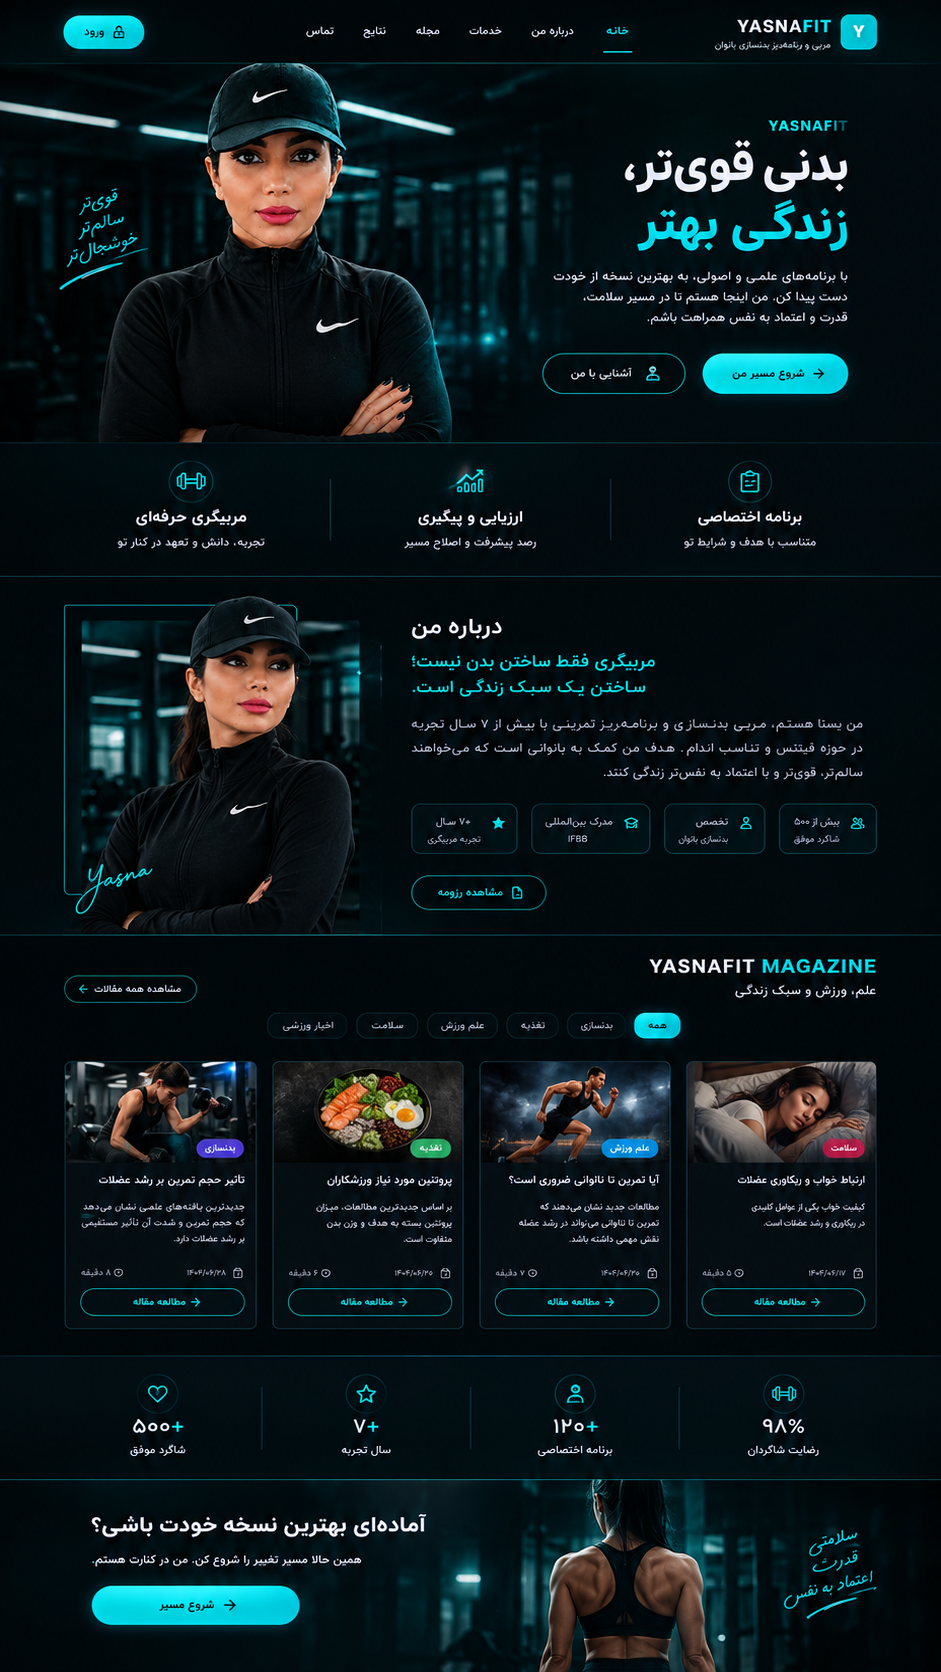
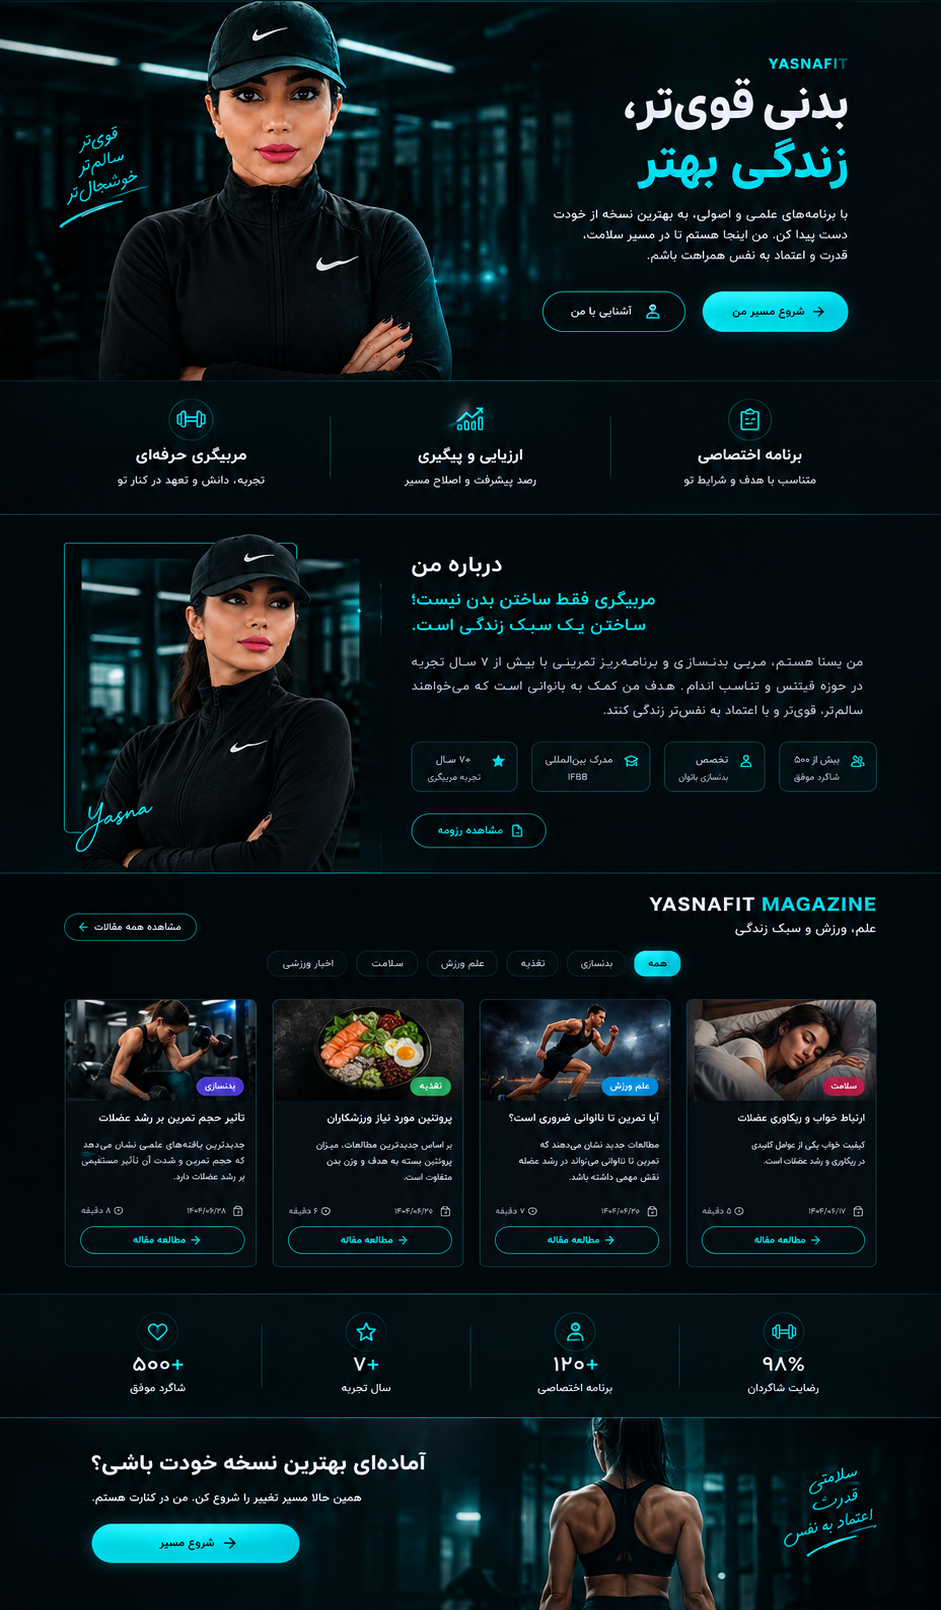
برش نوار هدرِ خودِ تصویر لندینگ (تکراری با هدر واقعی) — فقط فایل تصویر (۹۴×۱۶۱۰)

diff --git a/mahdi hellp.md b/mahdi hellp.md
@@ -1,7 +1,7 @@
 # MAHDI HELLP — YASNAFIT PERSISTENT AGENT MEMORY
 
 > **این فایل حافظهٔ دائمی پروژه است.** اولین کاری که هر Agent/Arena جدید باید بکند: فقط همین فایل را بخواند، سپس سراغ فایلهای مرتبط با تسک جاری برود. **کل مخزن یا همهٔ مستندات را ناخوانده باز نکنید.**
-> آخرین بهروزرسانی: **2026-09-20** (توسط Agent جلسهٔ `arena/01a0b993-yasnafit` — **Task 22 (شمارهگذاری docs/project-tracking): هدر واقعی روی لندینگ با لیست دقیق مالک (خانه/درباره من/خدمات/مجله/نتایج + ثبت نام + ورود) + تصویر به عرض طبیعی ۹۴۱px / موبایل-responsive ⇒ T-19 DONE**. قبلتر: Task 17–21 (همه committed + push شده). جلسهٔ قبل: `arena/01a0817f-yasnafit` — Task 25/26).
+> آخرین بهروزرسانی: **2026-09-20** (توسط Agent جلسهٔ `arena/01a0b993-yasnafit` — **Task 23 (شمارهگذاری docs/project-tracking): برش نوار هدرِ خودِ تصویر لندینگ (۶۲px — لوگو/منو/شعار/دکمهٔ ورود داخل تصویر که با هدر واقعی تکراری بود)؛ فقط تصویر برش خورد، کد دستنخورده**. قبلتر: Task 17–22 (همه committed + push شده). جلسهٔ قبل: `arena/01a0817f-yasnafit` — Task 25/26).
 > هر مقدار تأییدنشده با برچسب `UNKNOWN — needs verification` آمده است. هیچ مقدار اختراعی در این فایل نیست.
 
 ---
@@ -151,6 +151,7 @@
 ## 10. Current Completed Work (فقط کارهای واقعاً انجامشده)
 
 * **2026-09-20** — **Task 22 (همین جلسه/شاخه — هدر روی لندینگ + دکمهها + اندازهٔ تصویر — T-19 مرحلهٔ ۱):** مالک: «عکس خیلی بزرگه — کوچکتر کن مناسب موبایل هم باشه — بالا هدر — دکمهها: خانه - درباره من - خدمات - مجله - نتایج - ثبت نام - ورود» ⇒ (1) هدر واقعی بالای تصویر با دقیقاً همین ۵ لینک (`HEADER_NAV`) + دکمهٔ **ثبت نام** → `/student/register` + دکمهٔ **ورود** → `/student/login` (فلوهای موجود)؛ برای نشست مربی: «پنل مربی»؛ منوی همبرگری موبایل فعال. (2) تصویر سقف عرض ۹۴۱px (عرض طبیعی طرح) + وسطچین — موبایل: تمامعرض. هدر در همهٔ صفحات عمومی مشترک؛ فوتر دستنخورده (تماس در فوتر). **T-19 DONE** (مالک هدر بالا را بهجای دکمهرویتصویر انتخاب کرد). ۵۸ گروه test:public-site + ۱۹/۱۹ npm test + smoke زنده.
+* **2026-09-20** — **Task 23 (همین جلسه/شاخه — پاککردن نوشتههای هدرِ خودِ تصویر لندینگ):** مالک: «خوبه — ولی زیر دکمهها نوشتههای قبلی عکس بود؛ اون نوشتهها رو پاک کن» ⇒ نوار بالای `public/images/landing/landing2.png` (۶۲px = لوگو YASNAFIT + منو + شعار «مربی و برنامهریز پیشگیری بانوان» + دکمهٔ ورودِ داخل تصویر) برش خورد (۹۴۱×۱۶۷۲ → ۹۴۱×۱۶۱۰)؛ بقیهٔ طرح دستنخورده؛ هیچ کد/HTML/CSS تغییر نکرد (مسیر تصویر ثابت). smoke: تصویر ۲۰۰ (۹۴۱×۱۶۱۰).
 * **2026-09-20** — **Task 21 (همین جلسه/شاخه — لندینگ = تصویر کامل طرح مرجع `landing2.png`):** مالک از Task 20 (فقط عکسها) راضی نبود: «خوب نشد راضی نیستم — همین تصویر مرجع رو کامل استفاده کن؛ بعدا جای دکمه ها رو مشخص میکنیم» ⇒ بدی صفحهٔ `/` حالا تصویر کامل `public/images/landing/landing2.png` است (تمامعرض، بدون هدر/فوتر/دکمه — همهٔ المانهای طرح بصری)؛ `<head>`/SEO دستنخورده؛ ساختار لندینگ قبلی (`homeBody` + sample cards) از `server.js` حذف شد؛ سایر صفحات عمومی/دکمهها/API/ورود دستنخورده؛ ورود مربی فعلاً مستقیم `/coach/login` یا `/coach/dashboard`. ۵۷ گروه test:public-site + ۱۹/۱۹ npm test + smoke زنده. تسک جدید T-19: جایگذاری دکمهها بعد از مشخصشدن توسط مالک.
 * **2026-09-20** — **Task 20 (همین جلسه/شاخه — تصویرهای اصلی برند لندینگ از طراحی مالک `landing2.png`):** مالک: «فقط عکسها رو عوض کن. هیچ چیز دیگهای رو تغییر نده» ⇒ هیرو = زن با کلاه مشکی (دستبهسینه)، درباره = همان زن، CTA = نمای پشت، + ۴ تصویر کارت مجله (بدنسازی/تغذیه/علم ورزش/سلامت) — ۷ تصویر برشخورده در `public/images/landing/` + پیشفرضهای `site.hero_image`/`site.about_image`/`site.cta_image` + src کارتهای نمونه (`server.js`)؛ **هیچ** تغییر ساختار/متن/دکمه/فیلتر/آمار/چیدمان/رنگ؛ ۵۷ گروه test:public-site + ۱۹/۱۹ npm test + smoke زنده. KI-018 بسته شد؛ T-18 → PARTIAL (فقط OG).
 * **افزونه (2026-09-19، درخواست مالک):** launcher (گزینه 1/2) بهجای /coach/login حالا صفحه اصلی (لندینگ) را باز میکند — «نمیخوام این صفحه باز بشه اول، صفحه لندینگ بزار صفحه اصلی». `:OPEN_DASHBOARD` ⇒ `:OPEN_SITE` (URL `http://localhost:%PORT%/`)؛ منو همچنان 5 گزینهای (گاردهای تست دستنخورده). ورود مربی از دکمه «ورود» هدر لندینگ یا مستقیم /coach/login. همچنین ردیف راستیآزمایی deploy در DEPLOYMENT.md اصلاح شد (=/ = 200 لندینگ، نه 303). تستها: ui-design + student-credentials + deployment + public-site سبز.
@@ -237,6 +238,7 @@
 * **Task 20 (2026-09-20، درخواست مالک — تصویرهای برند):** «فقط عکسها رو عوض کن. هیچ چیز دیگهای رو تغییر نده» ⇒ ۷ تصویر از `landing2.png` (هیرو/درباره/CTA + ۴ کارت مجله) در `public/images/landing/` + پیشفرضهای `site.*_image` + src کارتها؛ چیدمان/متن/دکمه/فیلتر/آمار کاملاً دستنخورده (قاعدهٔ صریح مالک). ✅ ۵۷ گروه + ۱۹/۱۹ + smoke زنده؛ committed + push شده.
 * **Task 21 (2026-09-20، درخواست مالک — لندینگ = تصویر کامل):** مالک از Task 20 راضی نبود («خوب نشد راضی نیستم») و دستور داد «همین تصویر مرجع رو کامل استفاده کن؛ بعدا جای دکمه ها رو مشخص میکنیم» ⇒ صفحهٔ `/` حالا کل `landing2.png` را تمامعرض رندر میکند (بدون هدر/فوتر/دکمه — بقیهٔ صفحات عمومی هدر/فوتر دارند؛ ورود مربی مستقیم `/coach/login` یا `/coach/dashboard`). ساختار قبلی لندینگ از کد حذف شد. ✅ ۵۷ گروه + ۱۹/۱۹ + smoke زنده؛ committed + push شده.
 * **Task 22 (2026-09-20، درخواست مالک — هدر + دکمهها + اندازه):** «عکس خیلی بزرگه؛ کوچکتر کن مناسب موبایل هم باشه؛ بالا هدر؛ دکمهها: خانه - درباره من - خدمات - مجله - نتایج - ثبت نام - ورود» ⇒ هدر واقعی با لیست دقیق مالک + ثبت نام/ورود (فلوهای موجود) + منوی موبایل؛ تصویر به عرض ۹۴۱px وسطچین (موبایل: تمامعرض). ✅ ۵۸ گروه + ۱۹/۱۹ + smoke زنده؛ committed + push شده.
+* **Task 23 (2026-09-20، درخواست مالک — پاککردن نوشتههای تکراری):** «زیر دکمهها نوشتههای قبلی عکس بود؛ پاک کن» ⇒ نوار هدرِ خودِ تصویر (۶۲px: لوگو/منو/شعار/دکمه داخل تصویر) برش خورد؛ فقط فایل تصویر عوض شد (۹۴۱×۱۶۱۰)، کد دستنخورده. ✅ smoke سبز؛ committed + push شده.
 
 
 ## 14. Last Session Handoff

diff --git a/docs/project-tracking/CHANGELOG.md b/docs/project-tracking/CHANGELOG.md
@@ -7,6 +7,13 @@
 ---
 
 ## 2026-09-20
+### Task 23 — برش هدرِ خودِ تصویر طراحی (بعد از جااندازی هدر واقعی)
+
+- **FILES CHANGED:** فقط `public/images/landing/landing2.png` (برش ۹۴۱×۱۶۷۲ → ۹۴۱×۱۶۱۰ — نوار بالای تصویر، ۶۲px = هدر خودِ طرح (لوگو YASNAFIT + منو + شعار + دکمهٔ ورود) که با هدر واقعی صفحه تکراری شده بود، حذف شد) — **هیچ کد/CSS/HTML تغییر نکرد** (مسیر تصویر ثابت)
+- **WHAT:** مالک: «خوبه — ولی زیر دکمهها نوشتههای قبلی عکس بود؛ اون نوشتهها رو پاک کن» ⇒ نوار هدر خودِ طراحی از بالای تصویر برش خورد تا فقط هدر واقعی صفحه (لیست مالک) دیده شود. بقیهٔ طرح (هیرو + متنها + بقیهٔ بخشها) دستنخورده.
+- **WHY:** هدر واقعی (Task 22) بالای تصویر جا گرفته بود و هدر خودِ تصویر زیر آن تکراری/ازمایشی دیده میشد.
+- **TESTS:** smoke زنده: تصویر = ۲۰۰ (image/png، ابعاد ۹۴۱×۱۶۱۰) + `/` با src بدون تغییر • تستها بدون تغییر (۵۸ گروه)
+- **COMPAT / عوارض شناختهشده:** بدون تغییر کد؛ فایل اصلی مالک `landing2.png` در ریشهٔ main دستنخورده باقی است.
 
 ### Task 20 — تصویرهای اصلی برند لندینگ از طراحی مالک (`landing2.png`) — فقط عکسها
 

diff --git a/docs/project-tracking/PROJECT-CONTEXT.md b/docs/project-tracking/PROJECT-CONTEXT.md
@@ -4,7 +4,7 @@
 > بعد از هر تسک توسعه، این فایل باید بهروز شود (قواعد کامل: انتهای همین فایل و `CHANGELOG.md`).
 > هر ادعایی در این سند یکی از این وضعیتها را دارد: `VERIFIED` (تأییدشده با کد/اجرا)، `PARTIALLY VERIFIED`، `NOT VERIFIED`، `NOT IMPLEMENTED`.
 
-**آخرین بهروزرسانی:** 2026-09-20 — **Task 22: هدر واقعی روی لندینگ (لیست دقیق مالک: ۵ لینک + ثبت نام + ورود) + تصویر به عرض ۹۴۱px / موبایل-responsive (T-19 DONE؛ ۵۸ گروه + ۱۹/۱۹ + smoke) — قبلتر Task 21**
+**آخرین بهروزرسانی:** 2026-09-20 — **Task 23: برش نوار هدرِ خودِ تصویر لندینگ (۶۲px — تکراری با هدر واقعی)؛ فقط فایل تصویر عوض شد، کد دستنخورده (۹۴۱×۱۶۱۰؛ smoke) — قبلتر Task 22**
 **نسخه برنامه:** 0.9.1 (مقدار فعلی `package.json` — در Task 17–22 تغییر نکرد) • **وضعیت تستها:** ۱۹/۱۹ سوئیت پاس (اجرای واقعی `npm test` در 2026-09-20 Task 22، سندباکس Agent) + e2e روی سرور زندهٔ 3020 = PASS
 
 ---
